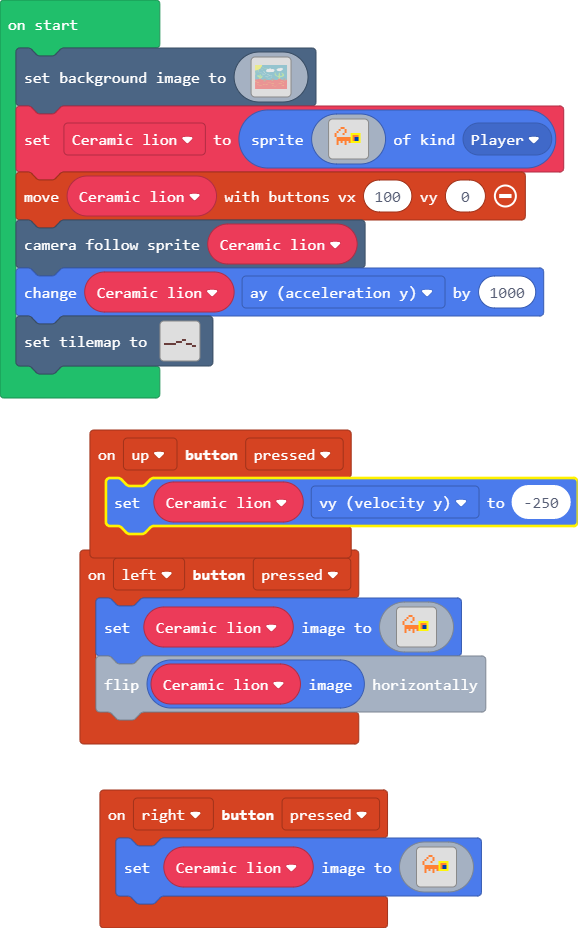
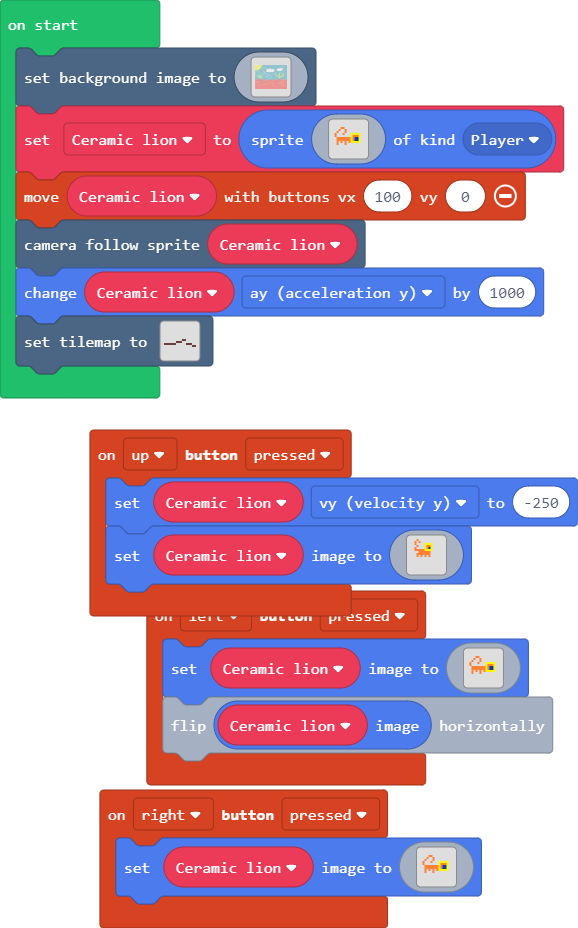
Update main.blocks, main.ts

Changed region(s): [[0.1246, 0.5, 1.0, 0.875]]

diff --git a/main.ts b/main.ts
@@ -100,6 +100,24 @@ controller.right.onEvent(ControllerButtonEvent.Pressed, function () {
 })
 controller.up.onEvent(ControllerButtonEvent.Pressed, function () {
     Ceramic_lion.vy = -250
+    Ceramic_lion.setImage(img`
+. . . 4 . . . . . . . . . . . . 
+. . 4 . 4 . . . . . . . . . . . 
+. . 4 . . . . 5 5 5 5 . . . . . 
+. . . 4 . . . 5 4 4 5 . . . . . 
+. . 4 . . . . 5 4 8 5 . . . . . 
+. . 4 4 4 4 4 5 5 5 5 . . . . . 
+. . . . 4 4 4 4 4 4 . . . . . . 
+. . . 4 4 4 4 4 4 4 . . . . . . 
+. . . 4 . 4 . 4 . 4 . . . . . . 
+. . . . . . . . . . . . . . . . 
+. . . . . . . . . . . . . . . . 
+. . . . . . . . . . . . . . . . 
+. . . . . . . . . . . . . . . . 
+. . . . . . . . . . . . . . . . 
+. . . . . . . . . . . . . . . . 
+. . . . . . . . . . . . . . . . 
+`)
 })
 let Ceramic_lion: Sprite = null
 scene.setBackgroundImage(img`
